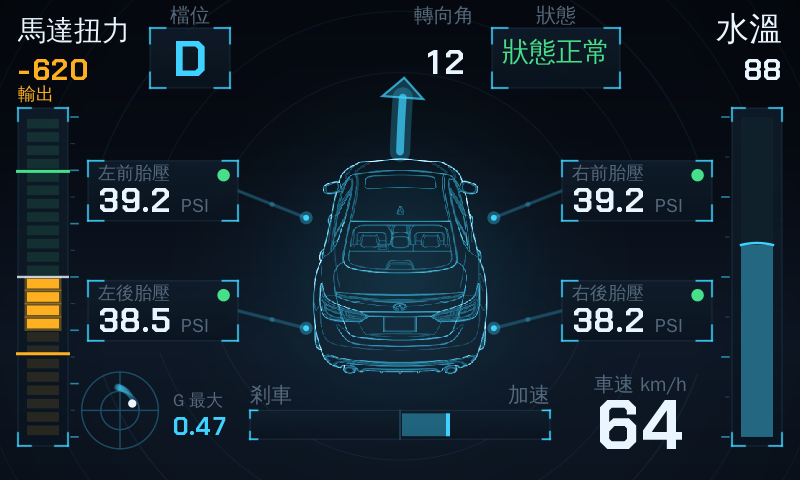
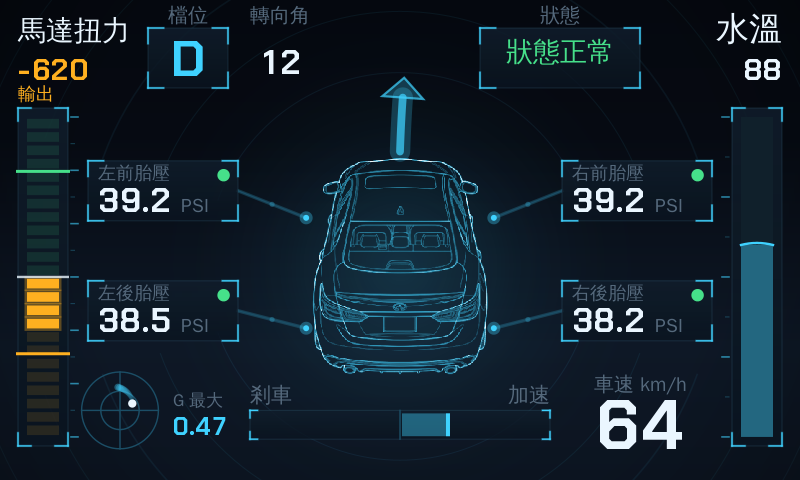
Move the steering figure into the empty gap beside the gear
There was dead space between the gear box and the arrow column while the
right-hand header was carrying three things in a row. Steering moves
left into that gap, which also puts the figure next to the arrow it
describes, so both are read in one glance.

The status panel takes the freed width and is now a fifth of the screen
rather than a sixth, which gives its longer messages -- TPMS WAIT over
no sensor yet -- room at full size instead of being scaled down to fit.

Re-checked at full right lock in both languages, that being the case
where the arrow reaches furthest toward the panel: the head still passes
underneath it, and the screenshot in the README is refreshed.

Claude-Session: https://claude.ai/code/session_01MpxiRDWBkt5m1V4dBngBvX

diff --git a/src/com/appgarage/dash/DashView.java b/src/com/appgarage/dash/DashView.java
@@ -199,7 +199,7 @@ public class DashView extends View {
 
         // The EV badge is gone. It inferred electric drive from zero rpm at road speed, and
         // type 13 never once left zero across a whole trip, so there was nothing behind it.
-        gearBox.set(W * 0.1875f, H * 0.0583f, W * 0.2875f, H * 0.1833f);
+        gearBox.set(W * 0.185f, H * 0.0583f, W * 0.285f, H * 0.1833f);
 
         // The steering readout sits beside its own dial rather than above the car, which
         // keeps the whole centre column free for the heading arrow to rise into. The two
@@ -207,11 +207,15 @@ public class DashView extends View {
         // The steering dial is gone. It duplicated the heading arrow, which already shows
         // the wheel, and the corner is worth more as somewhere for the car to say what is
         // wrong. The steering figure stays; only the dial went.
+        // Steering moved into the gap left of the arrow, which was simply empty. That frees
+        // the right side for a wider status panel, and puts the figure where the arrow it
+        // describes can be seen in the same glance.
+        //
         // The right-hand header carries three things and the English words are far longer
         // than the Chinese ones -- COOLANT against 水溫 is seven characters against two. Each
         // label is now fitted to a budget rather than trusted to be short enough, so neither
         // language can push one into its neighbour.
-        statusBox.set(W * 0.615f, H * 0.0583f, W * 0.775f, H * 0.1833f);
+        statusBox.set(W * 0.60f, H * 0.0583f, W * 0.80f, H * 0.1833f);
 
         // the supplied drawing is taller than it is wide, so height is what limits it
         carW = W * 0.255f;
@@ -510,7 +514,7 @@ public class DashView extends View {
         int n = h(STEER) ? fmt(deg, 0) : dashes();
         // sized and lifted so that full lock -- where the heading arrow swings widest --
         // still clears it, and so that four characters clear the status panel
-        drawNum(c, n, W * 0.555f, H * 0.155f, 1, H * 0.070f, h(STEER) ? WHITE : GREY);
+        drawNum(c, n, W * 0.35f, H * 0.155f, 1, H * 0.070f, h(STEER) ? WHITE : GREY);
     }
 
     /**
@@ -768,7 +772,7 @@ public class DashView extends View {
 
         panel(c, gearBox.left, gearBox.top, gearBox.right, gearBox.bottom);
         label(c, cjk ? "檔位" : "GEAR", gearBox.centerX(), gearBox.width(), H * 0.0458f);
-        label(c, cjk ? "轉向角" : "STEERING", W * 0.555f, W * 0.15f, H * 0.0458f);
+        label(c, cjk ? "轉向角" : "STEERING", W * 0.35f, W * 0.15f, H * 0.0458f);
 
         panel(c, statusBox.left, statusBox.top, statusBox.right, statusBox.bottom);
         label(c, cjk ? "狀態" : "STATUS", statusBox.centerX(), statusBox.width(), H * 0.0458f);

diff --git a/tools/Preview.java b/tools/Preview.java
@@ -86,8 +86,8 @@ public class Preview {
 
     static void layout(){
         barW=W*0.0625f; rpmX=W*0.0225f; cooX=W-rpmX-barW; rpmY0=H*0.225f; rpmY1=H*0.929f;
-        gearBox=new Rectangle2D.Float(W*0.1875f,H*0.0583f,W*0.10f,H*0.125f);
-        statusBox=new Rectangle2D.Float(W*0.615f,H*0.0583f,W*0.160f,H*0.125f);
+        gearBox=new Rectangle2D.Float(W*0.185f,H*0.0583f,W*0.10f,H*0.125f);
+        statusBox=new Rectangle2D.Float(W*0.60f,H*0.0583f,W*0.20f,H*0.125f);
         carW=W*0.255f; carH=H*0.46f; carCx=W*0.5f; carCy=H*0.555f;
         float bw=W*0.1875f,bh=H*0.125f,leftX=W*0.11f,rightX=W*0.7025f,topY=H*0.335f,botY=H*0.585f;
         tyreBox[0]=new Rectangle2D.Float(leftX,topY,bw,bh);
@@ -240,7 +240,7 @@ public class Preview {
         font(fitSize(coolant,(cooX+barW)-(float)statusBox.getMaxX()-W*0.014f,H*0.068f),false);
         text(coolant,cooX+barW,H*0.0833f,2);
         frame(gearBox); label(cjk?"檔位":"GEAR",(float)gearBox.getCenterX(),(float)gearBox.getWidth(),H*0.0458f);
-        label(cjk?"轉向角":"STEERING",W*0.555f,W*0.15f,H*0.0458f);
+        label(cjk?"轉向角":"STEERING",W*0.35f,W*0.15f,H*0.0458f);
         frame(statusBox); label(cjk?"狀態":"STATUS",(float)statusBox.getCenterX(),(float)statusBox.getWidth(),H*0.0458f);
         for(int i=0;i<4;i++){
             Rectangle2D.Float b=tyreBox[i]; boolean left=(i==0||i==2);
@@ -317,7 +317,7 @@ public class Preview {
         // steering
         float deg=g(STEER);
         G.setColor(h(STEER)?WHITE:GREY); font(H*0.070f,true);
-        num(h(STEER)?fmt(deg,0):"--",W*0.555f,H*0.155f,1);
+        num(h(STEER)?fmt(deg,0):"--",W*0.35f,H*0.155f,1);
         // tyres
         for(int i=0;i<4;i++){
             Rectangle2D.Float b=tyreBox[i]; int t=tyreType[i];
